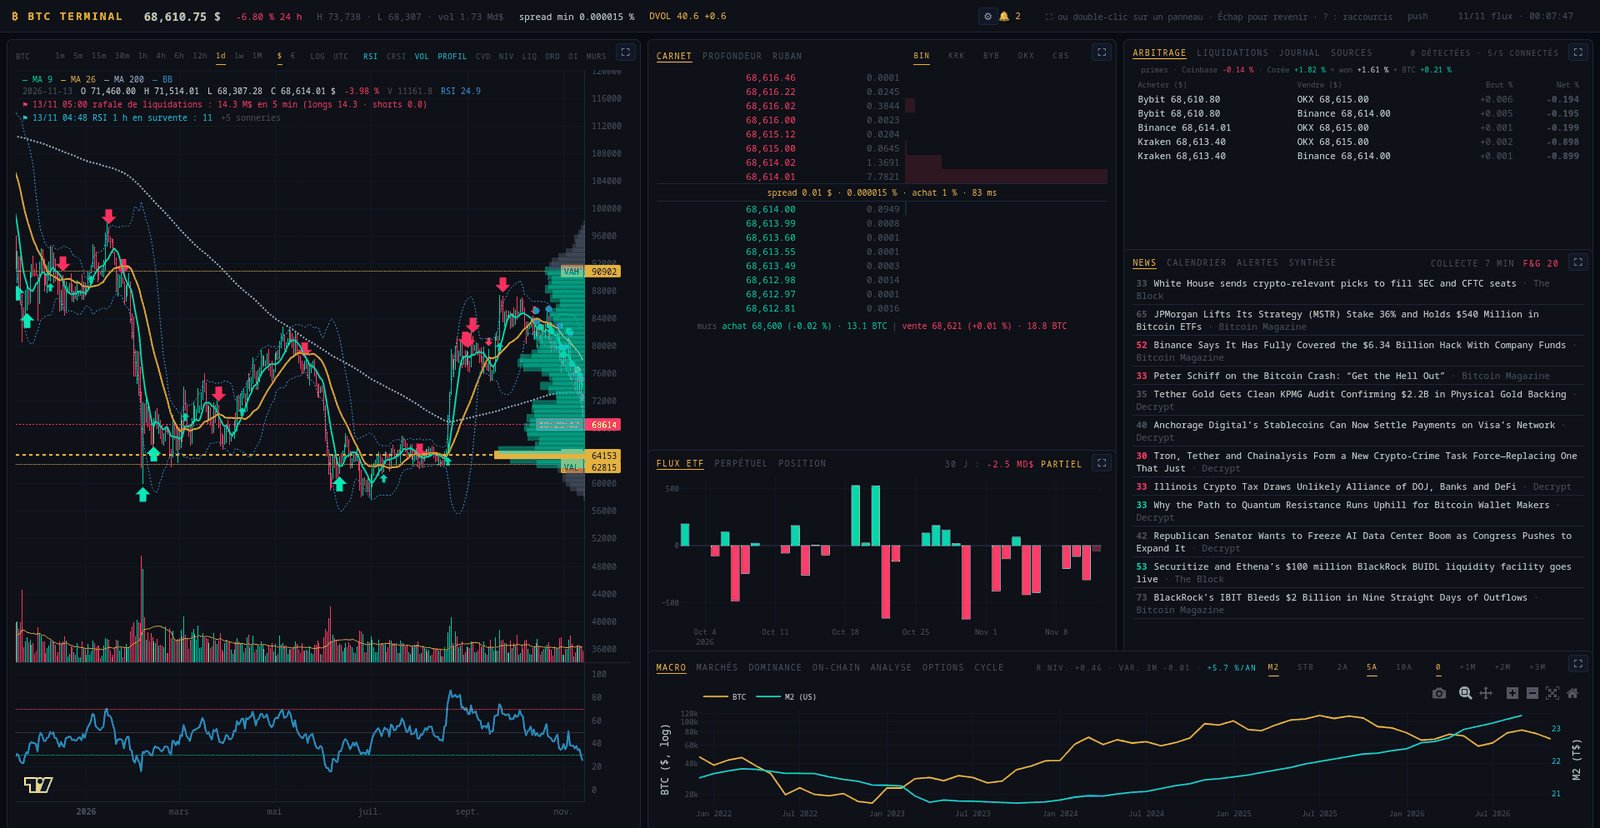
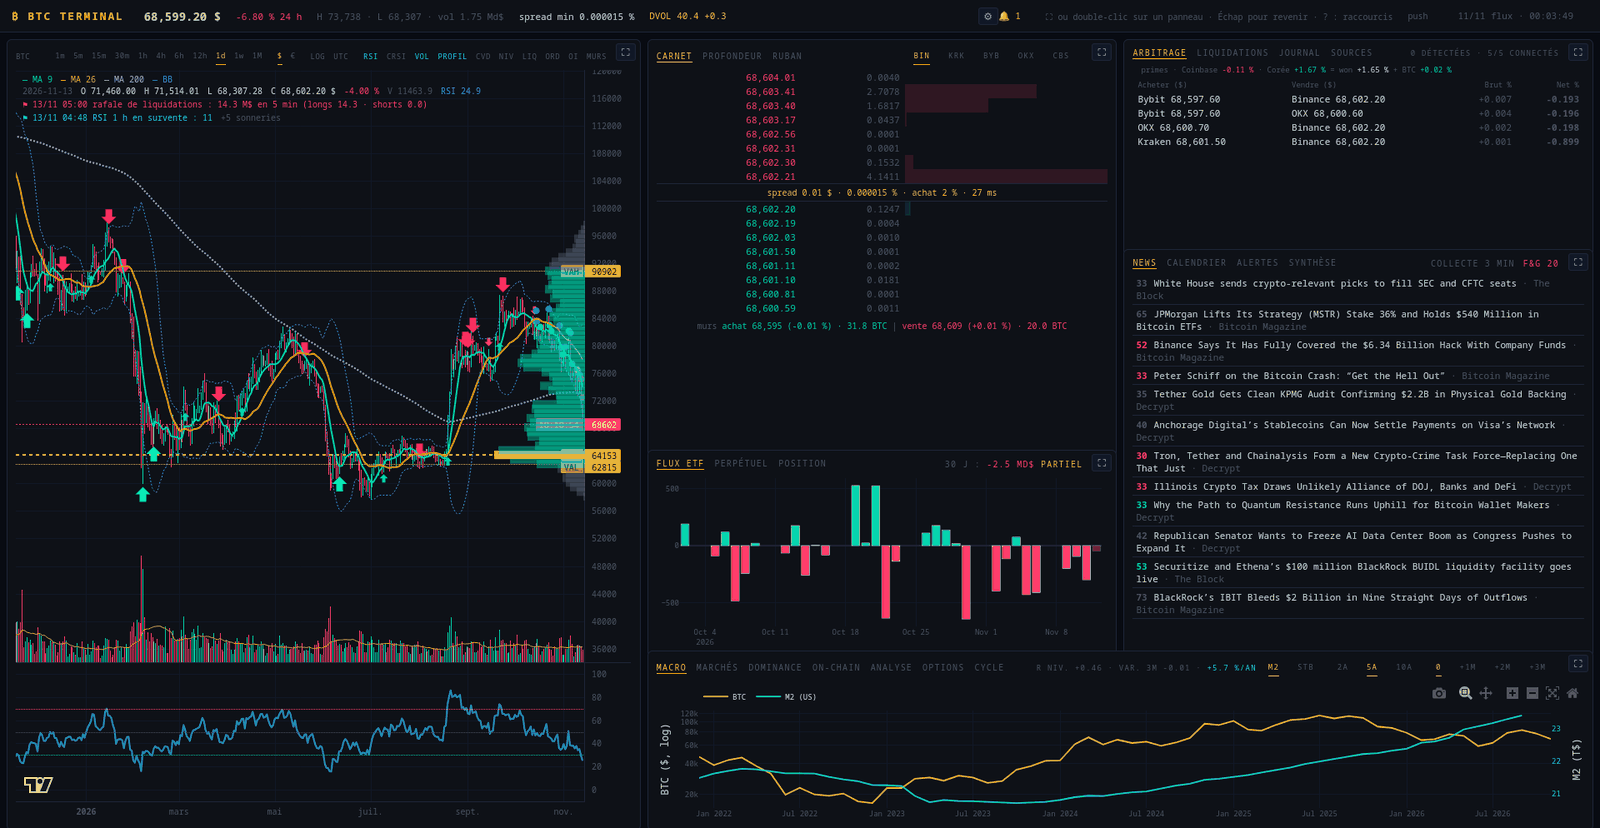
Une alerte quand le cours franchit les extrêmes de la semaine ou du mois passés
Les niveaux clés que le graphique trace déjà : plus haut et plus bas de
la semaine passée (quatre franchissements par mois depuis novembre 2023)
et du mois passé (un). Ceux de la veille restent au graphique — vingt-huit
par mois. Une sonnerie par niveau et par période ; la première lecture
fixe l'état sans sonner, un service relancé ne rejoue rien. Les niveaux
fusionnés se lisent à leur étiquette. Case « niveaux S/M » au panneau
ALERTES, cochée par défaut.

diff --git a/btcterm/alerts.py b/btcterm/alerts.py
@@ -21,6 +21,8 @@ connexion nouvelle :
   sur l'année écoulée ; réarmé sous les trois quarts du seuil ;
 - **open interest** : celui du perpétuel Binance varie de plus de 2,5 %
   en une heure, compté en bitcoins — du levier qui s'empile ou qui sort ;
+- **niveaux clés** : le cours dépasse le plus haut ou passe sous le plus
+  bas de la semaine passée ou du mois passé, une fois par niveau ;
 - **rafale de liquidations** : le notionnel liquidé sur 5 minutes,
   toutes paires, dépasse le seuil configuré ;
 - **financement extrême** : |taux par 8 h| au-delà du seuil ;
@@ -104,6 +106,7 @@ import datetime as dt
 import json
 import logging
 import os
+import re
 import threading
 import time
 from collections import deque
@@ -117,6 +120,7 @@ from . import indicators as ind
 from . import macrocal, newsdb, sources
 from . import cycle
 from . import options as opt
+from .analysis import key_levels
 from .journal import liquidity_totals
 
 __all__ = ["Alert", "AlertEngine", "DEFAULT_CONFIG",
@@ -148,6 +152,9 @@ DEFAULT_CONFIG: dict = {
     #: sonner quand la clôture journalière franchit sa MA 200 : la seule
     #: lecture que le bilan du panneau ANALYSE n'ait pas démentie.
     "trend_flip": True,
+    #: sonner quand le cours dépasse le plus haut ou passe le plus bas de la
+    #: semaine passée ou du mois passé (§ `_check_levels`).
+    "level_break": True,
     #: prévenir avant les échéances macro du calendrier (§ macrocal).
     "event_soon": True,
     #: sonner quand le cours franchit le gamma flip des options (§ options).
@@ -289,7 +296,8 @@ def normalize_config(data) -> dict:
             < config["rsi_overbought"] <= 100):
         config["rsi_overbought"] = DEFAULT_CONFIG["rsi_overbought"]
         config["rsi_oversold"] = DEFAULT_CONFIG["rsi_oversold"]
-    for key in ("sound", "signal_strong", "trend_flip", "event_soon",
+    for key in ("sound", "signal_strong", "trend_flip", "level_break",
+                "event_soon",
                 "gamma_flip", "cycle_shift", "sources_down"):
         if isinstance(data.get(key), bool):
             config[key] = data[key]
@@ -312,6 +320,28 @@ log = logging.getLogger(__name__)
 #: arrêté six heures retrouve des conditions qui ont pu retomber et revenir,
 #: et une condition toujours vraie mérite alors d'être redite.
 STATE_MAX_AGE = 6 * 3600
+
+
+_PERIODS = {"S-1": "de la semaine passée", "M-1": "du mois passé"}
+
+
+def _level_periods(level: dict) -> list[str]:
+    """Les périodes suivies qu'un niveau porte, lues dans son étiquette :
+    `key_levels` fusionne deux niveaux de même prix sous l'étiquette et la
+    période du premier — « B J-1/S-1 », le plus bas de la veille qui est
+    aussi celui de la semaine, a la période du jour, et reste suivi."""
+    return [tag for tag in re.split(r"[ /·]+", level["label"])
+            if tag in _PERIODS]
+
+
+def _level_words(level: dict) -> str:
+    """« plus haut de la semaine passée », « plus bas de la semaine et du
+    mois passés » pour un niveau double (« B S-1/M-1 », § key_levels)."""
+    extreme = "plus haut" if level["kind"] == "high" else "plus bas"
+    periods = _level_periods(level)
+    if len(periods) == 1:
+        return f"{extreme} {_PERIODS[periods[0]]}"
+    return f"{extreme} de la semaine et du mois passés"
 
 
 class AlertEngine:
@@ -338,6 +368,9 @@ class AlertEngine:
         self._down: dict[str, dict] = {}
         #: Armement des seuils de prix : (level, dir) → bool.
         self._armed: dict[tuple[float, str], bool] = {}
+        #: Niveaux de la semaine et du mois passés déjà vus : (étiquette,
+        #: prix) → vrai si le cours les a déjà passés (§ `_check_levels`).
+        self._levels: dict[tuple[str, float], bool] = {}
         #: Relevés du cours du dernier quart d'heure, (instant, prix) —
         #: un par tour d'observation (§ `_check_move`).
         self._moves: deque[tuple[float, float]] = deque()
@@ -513,6 +546,7 @@ class AlertEngine:
         """Les règles qui coûtent, à la minute (§ `evaluate`)."""
         for rule in (self._check_funding, self._check_news,
                      self._check_technical, self._check_trend,
+                     self._check_levels,
                      self._check_gamma, self._check_cycle,
                      self._check_event, self._check_dominance,
                      self._check_etf, self._check_chain,
@@ -738,6 +772,46 @@ class AlertEngine:
             self._fire("flip", f"clôture du {day} {sens} la MA 200 "
                                 f"journalière ({df['close'].iloc[-2]:,.0f} $)",
                        now)
+
+    def _check_levels(self, hub, _opps, config, now) -> None:
+        """Le cours dépasse le plus haut, ou passe sous le plus bas, de la
+        semaine passée ou du mois passé — les niveaux clés du graphique.
+
+        Ceux de la veille sont laissés au graphique : franchis vingt-huit
+        fois par mois depuis novembre 2023, ils feraient une sonnerie par
+        jour ; ceux de la semaine passée le sont quatre fois, ceux du mois
+        passé une fois. Un événement par niveau et par période : la
+        première lecture d'un niveau fixe son état sans sonner, comme celle
+        du gamma flip — un service relancé ne rejoue pas un franchissement
+        déjà fait —, puis il sonne la première fois qu'il est passé, et plus
+        jamais pour cette période. Au lundi ou au 1er, les niveaux changent
+        de prix, et repartent neufs.
+        """
+        if not config["level_break"]:
+            return
+        price = hub.reference_price()
+        daily = hub.klines("1d", limit=TREND_LIMIT)
+        if (not price or daily.attrs.get("demo", False)
+                or daily.attrs.get("stale", False) or daily.empty):
+            return
+        levels = [level for level in key_levels(
+                      daily, pd.Timestamp(now, unit="s", tz="UTC"))
+                  if level["kind"] in ("high", "low")
+                  and _level_periods(level)]
+        seen = {}
+        for level in levels:
+            key = (level["label"], level["price"])
+            beyond = (price > level["price"] if level["kind"] == "high"
+                      else price < level["price"])
+            known = self._levels.get(key)
+            seen[key] = bool(known) or beyond
+            if known is False and beyond:
+                sens = "au-dessus du" if level["kind"] == "high" else "sous le"
+                self._fire("level",
+                           f"cours {sens} {_level_words(level)} "
+                           f"({level['label']} {level['price']:,.0f} $) : "
+                           f"{price:,.0f} $", now)
+        self._levels = seen
 
     def _check_gamma(self, hub, _opps, config, now) -> None:
         """Le cours franchit le gamma flip : les teneurs de marché changent

diff --git a/tests/test_alerts.py b/tests/test_alerts.py
@@ -402,6 +402,66 @@ def test_open_interest_qui_bouge_vite():
     print("  ✓ open interest : chiffres, cours, lecture, hystérésis, trous")
 
 
+def test_les_niveaux_de_la_semaine_et_du_mois():
+    """Le plus haut ou le plus bas de la semaine passée ou du mois passé,
+    franchi : une sonnerie par niveau et par période, la première lecture
+    muette — un service relancé ne rejoue rien —, débrayable."""
+    from btcterm.alerts import _level_words
+
+    jours = pd.date_range("2026-09-01", "2026-11-13", freq="D")
+    daily = pd.DataFrame({"time": jours, "open": 100_000.0,
+                          "high": 101_000.0, "low": 99_000.0,
+                          "close": 100_000.0})
+    daily.loc[jours == "2026-11-04", ["high", "low"]] = [110_000.0, 90_000.0]
+    daily.loc[jours == "2026-10-14", "high"] = 120_000.0
+    daily.loc[jours == "2026-10-20", "low"] = 80_000.0
+    maintenant = pd.Timestamp("2026-11-13 12:00", tz="UTC").timestamp()
+
+    hub = FakeHub()
+    hub.klines = lambda interval="1h", limit=0: daily
+    e = engine()
+
+    def tour(prix, dt=0.0, moteur=None):
+        moteur = moteur or e
+        hub.price = prix
+        avant = len(moteur.alerts)
+        moteur._check_levels(hub, None, moteur.config, maintenant + dt)
+        return [a.message for a in list(moteur.alerts)[avant:]]
+
+    assert tour(100_000) == [], "la première lecture arme sans sonner"
+    assert tour(111_000, 60) == [
+        "cours au-dessus du plus haut de la semaine passée "
+        "(H S-1 110,000 $) : 111,000 $"]
+    assert e.alerts[-1].kind == "level"
+    assert tour(112_000, 120) == [] and tour(100_000, 180) == []
+    assert tour(111_000, 240) == [], "une fois par période, pas davantage"
+    deux = tour(79_000, 300)
+    assert deux == [
+        "cours sous le plus bas de la semaine passée (B S-1 90,000 $) : 79,000 $",
+        "cours sous le plus bas du mois passé (B M-1 80,000 $) : 79,000 $"], deux
+
+    # Relancé au-delà d'un niveau : la première lecture le tient pour vu.
+    relance = engine()
+    assert tour(121_000, 0, relance) == []
+    assert tour(122_000, 60, relance) == []
+    # Débrayée, ou sur la démonstration : rien.
+    eteint = engine(level_break=False)
+    tour(100_000, 0, eteint)
+    assert tour(111_000, 60, eteint) == []
+    daily.attrs["demo"] = True
+    demo = engine()
+    tour(100_000, 0, demo)
+    assert tour(111_000, 60, demo) == []
+    daily.attrs.pop("demo")
+
+    assert _level_words({"label": "B J-1/S-1", "kind": "low"}) \
+        == "plus bas de la semaine passée", "un niveau fusionné reste suivi"
+    assert _level_words({"label": "H S-1/M-1", "kind": "high"}) \
+        == "plus haut de la semaine et du mois passés"
+    print("  ✓ niveaux de la semaine et du mois : une sonnerie par niveau, "
+          "relance muette")
+
+
 def test_l_hysteresis_du_front():
     """`_edge` sans `clear` : réarmé dès que la condition retombe ; avec,
     réarmé seulement quand `clear` le dit."""

diff --git a/terminal/panels/alerts.py b/terminal/panels/alerts.py
@@ -40,7 +40,8 @@ from ..theme import C, MONO, PANEL_STYLE, TITLE_STYLE
 ROWS = 30
 
 #: Couleur d'étiquette par règle — celles des panneaux correspondants.
-KIND_COLORS = {"price": C["yellow"], "move": C["yellow"], "liq": C["red"],
+KIND_COLORS = {"price": C["yellow"], "move": C["yellow"], "level": C["yellow"],
+               "liq": C["red"],
                "funding": C["orange"], "news": C["blue"], "arb": C["green"],
                "trend": C["purple"], "flip": C["purple"], "event": C["orange"],
                "gamma": C["yellow"], "cycle": C["purple"],
@@ -174,6 +175,12 @@ def layout(title=None):
                     id="alert-trend",
                     options=[{"label": "tendance J", "value": "on"}],
                     value=["on"] if config["trend_flip"] else [],
+                    inline=True, className="tf-check",
+                    style={"fontSize": "9px", "display": "inline-block"}),
+                dcc.Checklist(
+                    id="alert-levels",
+                    options=[{"label": "niveaux S/M", "value": "on"}],
+                    value=["on"] if config["level_break"] else [],
                     inline=True, className="tf-check",
                     style={"fontSize": "9px", "display": "inline-block"}),
                 dcc.Checklist(
@@ -326,6 +333,7 @@ def register(app, hub):
         Input("alert-depth", "value"),
         Input("alert-signal", "value"),
         Input("alert-trend", "value"),
+        Input("alert-levels", "value"),
         Input("alert-gamma", "value"),
         Input("alert-cycle", "value"),
         Input("alert-event", "value"),
@@ -337,7 +345,7 @@ def register(app, hub):
     )
     def _edit(_add, _dels, move, liq, funding, news_score, arb,
               ma200, rsi_hi, rsi_lo, dominance, etf, mempool, block,
-              dvol, oi, skew, depth, signal, trend, gamma, cycle_shift, event,
+              dvol, oi, skew, depth, signal, trend, levels, gamma, cycle_shift, event,
               sources_down, sound,
               level, stored):
         trigger = dash.ctx.triggered_id
@@ -385,6 +393,7 @@ def register(app, hub):
                       "liquidity_drop_pct": depth,
                       "signal_strong": bool(signal),
                       "trend_flip": bool(trend),
+                      "level_break": bool(levels),
                       "gamma_flip": bool(gamma),
                       "cycle_shift": bool(cycle_shift),
                       "event_soon": bool(event),

diff --git a/btcterm/notify.py b/btcterm/notify.py
@@ -59,7 +59,7 @@ KIND_TAGS = {
     "flip": "chart_with_upwards_trend", "event": "calendar",
     "rsi": "thermometer", "signal": "triangular_flag_on_post",
     "dominance": "pie", "etf": "bank", "chain": "link", "vol": "zap",
-    "skew": "shield", "oi": "bar_chart",
+    "skew": "shield", "oi": "bar_chart", "level": "round_pushpin",
     "brief": "sunrise",
 }
 
@@ -72,7 +72,7 @@ KIND_TITLES = {
     "flip": "tendance journalière", "event": "échéance macro",
     "rsi": "RSI", "signal": "signal", "dominance": "dominance",
     "etf": "flux ETF", "chain": "réseau", "vol": "volatilité implicite",
-    "skew": "skew des options", "oi": "open interest",
+    "skew": "skew des options", "oi": "open interest", "level": "niveau clé",
     "brief": "synthèse du matin",
 }
 

diff --git a/README.md b/README.md
@@ -117,7 +117,7 @@ de la synthèse du matin suivent celle du serveur. Le bandeau affiche
 | **News** | fil scoré + indice Fear & Greed, dont la courbe sur 90 jours en plein écran | 2 s en lecture, collecte toutes les 15 min |
 | **Synthèse** | les dernières 24 h en une page : cours et journée glissante, financement et open interest et leur écart, liquidations et gros ordres journalisés, flux ETF (et en bitcoins, face à l'émission), Fear & Greed, DVOL et son rang sur un an, skew, exposition gamma et gamma flip, mouvement attendu, prime Coinbase, prime coréenne, dominance, cycle (halving, sommet, Mayer, MVRV, Puell quand il sort de sa bande), agenda — échéances macro, publications américaines de la semaine, échéances d'options —, alertes sonnées, news les mieux notées ; la couverture du journal dite en tête quand la machine a dormi (onglet des news) | 5 min |
 | **Calendrier** | prochaines échéances macro — FOMC, CPI, NFP, PCE —, grosses échéances d'options Deribit (montant, max pain, put/call) et publications américaines de la semaine selon Forex Factory (PPI, ventes au détail, inscriptions au chômage, discours de la Fed ; prévision et précédent), avec compte à rebours (onglet des news) | 5 min |
-| **Alertes** | sonneries et réglages : seuils de cours, mouvement brusque (2 % en 15 min), rafale de liquidations, financement extrême, news à fort score, écart d'arbitrage, écart à la MA 200, RSI extrême, signal gradué fort, clôture journalière de part et d'autre de la MA 200, franchissement du gamma flip des options, bascules du cycle (MVRV en zone extrême, capitulation des mineurs), échéance macro dans la demi-heure, glissement de dominance, jour de flux ETF, réseau chargé, bond de la volatilité implicite, open interest qui bouge de 2,5 % en une heure, déplacement du skew (onglet des news) | 2 s |
+| **Alertes** | sonneries et réglages : seuils de cours, mouvement brusque (2 % en 15 min), rafale de liquidations, financement extrême, news à fort score, écart d'arbitrage, écart à la MA 200, RSI extrême, signal gradué fort, clôture journalière de part et d'autre de la MA 200, plus haut ou plus bas de la semaine ou du mois passés franchi, franchissement du gamma flip des options, bascules du cycle (MVRV en zone extrême, capitulation des mineurs), échéance macro dans la demi-heure, glissement de dominance, jour de flux ETF, réseau chargé, bond de la volatilité implicite, open interest qui bouge de 2,5 % en une heure, déplacement du skew (onglet des news) | 2 s |
 | **Macro** | cours contre masse monétaire M2 (US) ou contre l'offre de stablecoins (`STB`), décalage réglable et corrélations | 5 min |
 | **Analyse** | tendance, écart à la MA 200, RSI, ATR et dernier signal de 15m à 1w ; au choix, bilan des signaux contre une référence, règles simples face à la détention, frais compris, carte des rendements mensuels, ou carte des heures — l'amplitude moyenne par jour et par heure sur un an, quand le bitcoin bouge ; export CSV (onglet de la macro) | 30 s |
 | **Dominance** | parts de capitalisation et leur tendance journalisée — hors actifs que la source compte par intermittence —, cap totale et volume 24 h (onglet de la macro) | 5 min |
@@ -389,7 +389,8 @@ python -m terminal.app --no-journal              # s'en passer
 pas : seuils de cours posés depuis le panneau ALERTES (le sens — au-dessus,
 au-dessous — est figé à la pose, avec hystérésis de réarmement), mouvement
 brusque (2 % depuis le plus haut ou le plus bas du dernier quart d'heure —
-cinq fois par mois sur l'année écoulée), open interest qui bouge de 2,5 % en
+cinq fois par mois sur l'année écoulée), plus haut ou plus bas de la semaine
+ou du mois passés franchi (une fois par niveau), open interest qui bouge de 2,5 % en
 une heure (compté en bitcoins, le message dit le cours de la même heure et la
 lecture usuelle du couple), rafale de liquidations, financement extrême, news à fort score, écart d'arbitrage —
 plus trois règles relatives lues sur la bougie horaire close : écart du

diff --git a/ARCHITECTURE.md b/ARCHITECTURE.md
@@ -871,7 +871,7 @@ de l'open interest compris.
 
 Douze panneaux qu'il faut balayer des yeux couvraient la surveillance
 active ; la passive demande l'inverse — que le terminal prévienne.
-`AlertEngine` évalue vingt et une règles dans la boucle d'observation du hub
+`AlertEngine` évalue vingt-deux règles dans la boucle d'observation du hub
 (1 s), toutes nourries par ce que le hub tient déjà, sans aucune
 connexion nouvelle :
 
@@ -998,7 +998,7 @@ chaud à la minute — c'est sur lui que le bandeau lit DVOL sans réseau :
   un réseau qui filtre une plateforme sonnerait pour rien ; à cocher sur le
   serveur.
 
-Les quatre suivantes sont des événements datés, comme le signal gradué,
+Les cinq suivantes sont des événements datés, comme le signal gradué,
 mais tirés de ce que le bilan du panneau ANALYSE (§3.14) et le
 calendrier (§2.6) ont appris au terminal :
 
@@ -1006,6 +1006,20 @@ calendrier (§2.6) ont appris au terminal :
   côté de sa MA 200, la seule lecture que le bilan n'ait pas démentie.
   Elle est lue sur la dernière bougie journalière *close*, et se tait
   sur la démonstration comme sur un historique périmé ;
+- **niveaux clés** — le cours dépasse le plus haut, ou passe sous le plus
+  bas, de la semaine passée ou du mois passé (`_check_levels`), les niveaux
+  que le graphique trace (§3.13, `analysis.key_levels`). Ceux de la veille
+  restent au graphique : depuis novembre 2023, ils sont franchis vingt-huit
+  fois par mois, ceux de la semaine quatre, ceux du mois une. Un événement
+  par niveau et par période : la première lecture d'un niveau fixe son état
+  sans sonner — un service relancé ne rejoue pas un franchissement déjà
+  fait —, puis la règle sonne au premier passage et plus jamais pour cette
+  période ; au lundi ou au 1er, les niveaux changent de prix et repartent
+  neufs. Les niveaux fusionnés par `key_levels` se lisent à leur étiquette :
+  « B J-1/S-1 », le plus bas de la veille qui est aussi celui de la
+  semaine, porte la période du jour et reste suivi. « cours sous le plus bas
+  du mois passé (B M-1 76,326 $) : 76,100 $ » ; case « niveaux S/M »,
+  cochée par défaut ;
 - **gamma flip** — le cours passe de l'autre côté du gamma flip des
   options (§3.16) : les teneurs de marché changent de régime, du marché
   qu'ils tassent au marché qu'ils étirent, ou l'inverse. Le cours doit
@@ -1034,7 +1048,7 @@ calendrier (§2.6) ont appris au terminal :
 
 La tendance journalière et l'échéance proche portent leur date dans leur
 message : relues du journal au redémarrage (voir plus bas), elles ne sont
-pas rejouées. Chacune des quatre se débraye d'une case, comme le signal
+pas rejouées. Chacune des cinq se débraye d'une case, comme le signal
 gradué — qui reste armé par défaut malgré ce que le bilan en dit : c'est
 un réglage de l'utilisateur, pas un défaut du terminal.
 
